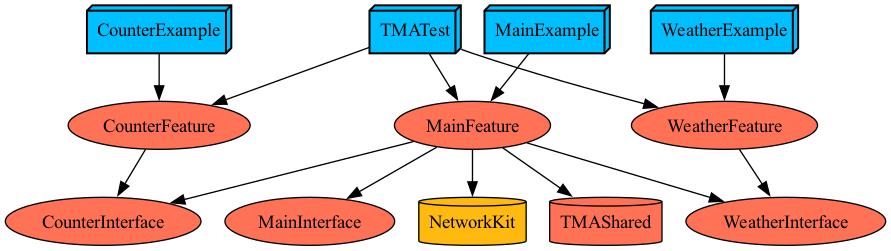
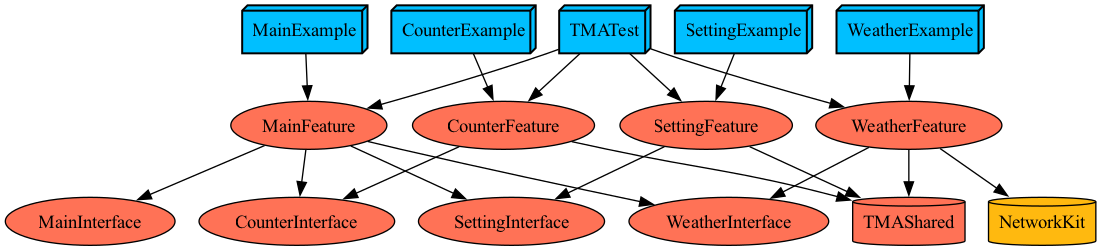
example Info.plist 파일 추가, 번들 id 통일

diff --git a/Features/Main/Project.swift b/Features/Main/Project.swift
@@ -8,8 +8,8 @@ let project = Project(
             name: "MainExample",
             destinations: [.iPhone],
             product: .app,
-            bundleId: "MainExampleApp",
-            infoPlist: .default,
+            bundleId: "io.tuist.TMATest",
+            infoPlist: .file(path: "FeatureExample/Info.plist"),
             sources: ["FeatureExample/**"],
             dependencies: [
                 .target(name: "MainFeature")
@@ -28,8 +28,7 @@ let project = Project(
             product: .staticLibrary,
             bundleId: "",
             sources: ["Feature/**"],
-            dependencies: .defaultLibraries + [
-                .library(.NetworkKit), 
+            dependencies: .defaultLibraries + [ 
                 .target(name: "MainInterface"),
                 .project(
                     target: "CounterInterface",

diff --git a/Features/Counter/FeatureExample/CounterExampleApp.swift b/Features/Counter/FeatureExample/CounterExampleApp.swift
@@ -11,7 +11,10 @@ final class CounterExampleAppDelegate: UIResponder, UIApplicationDelegate {
 
     func application(_ application: UIApplication, didFinishLaunchingWithOptions launchOptions: [UIApplication.LaunchOptionsKey: Any]?) -> Bool {
         window = UIWindow(frame: UIScreen.main.bounds)
-        window?.rootViewController = CounterViewController()
+        let viewController = CounterViewController()
+        viewController.reactor = CounterReactor()
+        window?.rootViewController = viewController
+        window?.backgroundColor = .white
         window?.makeKeyAndVisible()
         return true
     }

diff --git a/Features/Counter/Project.swift b/Features/Counter/Project.swift
@@ -8,8 +8,8 @@ let project = Project(
             name: "CounterExample",
             destinations: [.iPhone],
             product: .app,
-            bundleId: "CounterExampleApp",
-            infoPlist: .default,
+            bundleId: "io.tuist.TMATest",
+            infoPlist: .file(path: "FeatureExample/Info.plist"),
             sources: ["FeatureExample/**"],
             dependencies: [
                 .target(name: "CounterFeature")

diff --git a/Features/Setting/Project.swift b/Features/Setting/Project.swift
@@ -8,8 +8,8 @@ let project = Project(
             name: "SettingExample",
             destinations: [.iPhone],
             product: .app,
-            bundleId: "SettingExampleApp",
-            infoPlist: .default,
+            bundleId: "io.tuist.TMATest",
+            infoPlist: .file(path: "FeatureExample/Info.plist"),
             sources: ["FeatureExample/**"],
             dependencies: [
                 .target(name: "SettingFeature")

diff --git a/Features/Weather/Project.swift b/Features/Weather/Project.swift
@@ -8,8 +8,8 @@ let project = Project(
             name: "WeatherExample",
             destinations: [.iPhone],
             product: .app,
-            bundleId: "WeatherExampleApp",
-            infoPlist: .default,
+            bundleId: "io.tuist.TMATest",
+            infoPlist: .file(path: "FeatureExample/Info.plist"),
             sources: ["FeatureExample/**"],
             dependencies: [
                 .target(name: "WeatherFeature")
